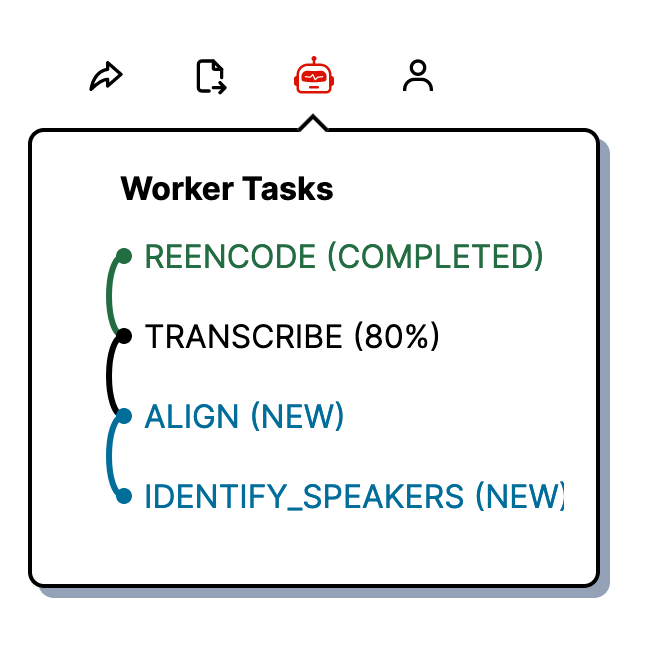
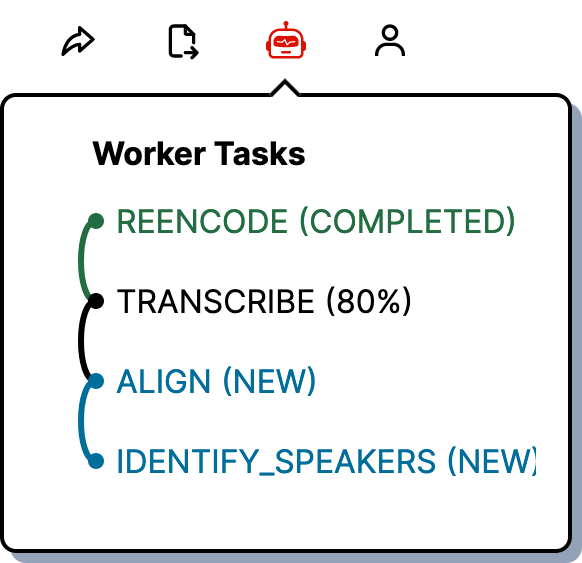
optimize landing page

Changed region(s): [[0.0, 0.0302, 1.0, 1.0], [0.1546, 0.2416, 0.5258, 0.3321]]

diff --git a/src/app/page.tsx b/src/app/page.tsx
@@ -6,7 +6,7 @@ import { ReactNode } from 'react';
 import AppPreviewSrc from '../assets/app-preview.png';
 import WorkerPopupSrc from '../assets/worker_popup.png';
 import ExportSrc from '../assets/export.png';
-import CorrectSrc from '../assets/correct.png';
+import CorrectSrc from '../assets/correction.svg';
 import clsx from 'clsx';
 
 export default function HomePage() {
@@ -15,16 +15,26 @@ export default function HomePage() {
       <Hero />
       <Block
         heading="State of the art automatic transcription."
-        imageSrc={WorkerPopupSrc}
-        imageAlt="An image of the transcribee popup showing the automatic transcription status"
+        image={
+          <Image
+            src={WorkerPopupSrc}
+            alt={'An image of the transcribee popup showing the automatic transcription status'}
+            className="rounded-md w-[530px] px-10"
+          />
+        }
       >
         transcribee uses the open source <i>Whisper</i> machine-learning (ML) model to create high
         quality automated transcriptions.
       </Block>
       <Block
         heading="Manual Refinement"
-        imageSrc={CorrectSrc}
-        imageAlt="An image of the transcribee popup showing the automatic transcription status"
+        image={
+          <Image
+            src={CorrectSrc}
+            alt={'An image of the transcribee popup showing the automatic transcription status'}
+            className="rounded-md w-[530px] shadow-[0px_4px_20px_rgba(0,0,0,0.15)]"
+          />
+        }
         imageOnRight={true}
       >
         Automatic transcripts can easily be manually corrected. Words that are likely not correct
@@ -32,20 +42,32 @@ export default function HomePage() {
       </Block>
       <Block
         heading="Export"
-        imageSrc={ExportSrc}
-        imageAlt="An image of the transcribee popup showing the automatic transcription status"
+        image={
+          <Image
+            src={ExportSrc}
+            alt={'An image of the transcribee popup showing the automatic transcription status'}
+            className="rounded-md w-[480px] px-10"
+          />
+        }
       >
         Completed documents can be exported as Text documents or for subtitle usage as WebVTT or
         SRT.
       </Block>
       <Block
         heading="100% Open Source"
-        imageSrc={{
-          src: 'https://opengraph.githubassets.com/9f54235fd4245bd96dc4a7a1943458471f4bcb1e36fff3c7ced9ddfad8977bf2/bugbakery/transcribee',
-          width: 1200,
-          height: 600,
-        }}
-        imageAlt=""
+        image={
+          <a target="_blank" href="https://github.com/bugbakery/transcribee">
+            <Image
+              src={
+                'https://opengraph.githubassets.com/9f54235fd4245bd96dc4a7a1943458471f4bcb1e36fff3c7ced9ddfad8977bf2/bugbakery/transcribee'
+              }
+              width={1200}
+              height={600}
+              alt={'An image of the transcribee popup showing the automatic transcription status'}
+              className="rounded-md w-[530px] shadow-[0px_4px_20px_rgba(0,0,0,0.15)]"
+            />
+          </a>
+        }
         imageOnRight={true}
       >
         transcribee is open source and licensed under the AGPL-3.0 license. You can inspect the
@@ -57,9 +79,9 @@ export default function HomePage() {
 
 function Hero() {
   return (
-    <div className="flex flex-col md:flex-row gap-10 items-center my-6 sm:my-48">
-      <div className="text-center md:text-left items-center md:items-start flex flex-col">
-        <h1 className="text-[calc(min(50px,10vw_+_3px))] md:text-[calc(min(60px,3.8vw_+_12px))] font-semibold mb-6 leading-tight">
+    <div className="flex flex-col lg:flex-row gap-10 items-center my-6 lg:my-48 md:my-12 lg:mx-4">
+      <div className="text-center lg:text-left items-center lg:items-start flex flex-col mb-1">
+        <h1 className="text-[calc(min(50px,10vw_+_3px))] lg:text-[calc(min(60px,3.8vw_+_12px))] font-semibold mb-6 leading-tight">
           Transcriptions
           <br />
           for everyone.
@@ -80,7 +102,7 @@ function Hero() {
           Get started for free →
         </a>
       </div>
-      <div className="flex items-center flex-grow w-full">
+      <div className="flex items-center flex-grow w-full max-w-[800px]">
         <Image
           src={AppPreviewSrc}
           alt="Overview of the transcribee application"
@@ -94,34 +116,25 @@ function Hero() {
 function Block({
   children,
   heading,
-  imageSrc,
-  imageAlt,
+  image,
   imageOnRight = false,
 }: {
   children: ReactNode;
   heading: ReactNode;
-  imageSrc: StaticImageData;
-  imageAlt: string;
+  image: ReactNode;
   imageOnRight?: boolean;
 }) {
   return (
-    <div className="flex flex-col md:flex-row gap-10 items-center my-6 sm:my-36">
-      <div className="flex items-center">
-        <Image
-          src={imageSrc}
-          alt={imageAlt}
-          className="rounded-md w-[530px] shadow-[0px_1px_15px_rgba(0,0,0,0.1)]"
-        />
-      </div>
+    <div className="flex flex-col md:flex-row lg:gap-10 items-center my-6 sm:my-36 justify-center mt-16">
       <div
         className={clsx(
-          'text-center md:text-left items-center md:items-start flex flex-col flex-grow',
-          imageOnRight && 'md:order-first',
+          'text-center md:text-left items-center md:items-start flex flex-col flex-grow max-w-sm',
         )}
       >
         <h2 className="text-4xl font-semibold mb-6 leading-tight px-8 md:px-0">{heading}</h2>
-        <p className="text-lg leading-6 mb-6 max-w-sm">{children}</p>
+        <p className="text-lg leading-6 mb-6">{children}</p>
       </div>
+      <div className={clsx('flex items-center', imageOnRight && 'md:order-first')}>{image}</div>
     </div>
   );
 }

diff --git a/src/app/pricing/page.tsx b/src/app/pricing/page.tsx
@@ -81,12 +81,8 @@ export default function PricingPage() {
   );
 }
 
-function ListP({children}: {children: ReactNode}) {
-  return (
-    <p className='text-center'>
-      {children}
-    </p>
-  );
+function ListP({ children }: { children: ReactNode }) {
+  return <p className="text-center">{children}</p>;
 }
 
 function PricingCard({
